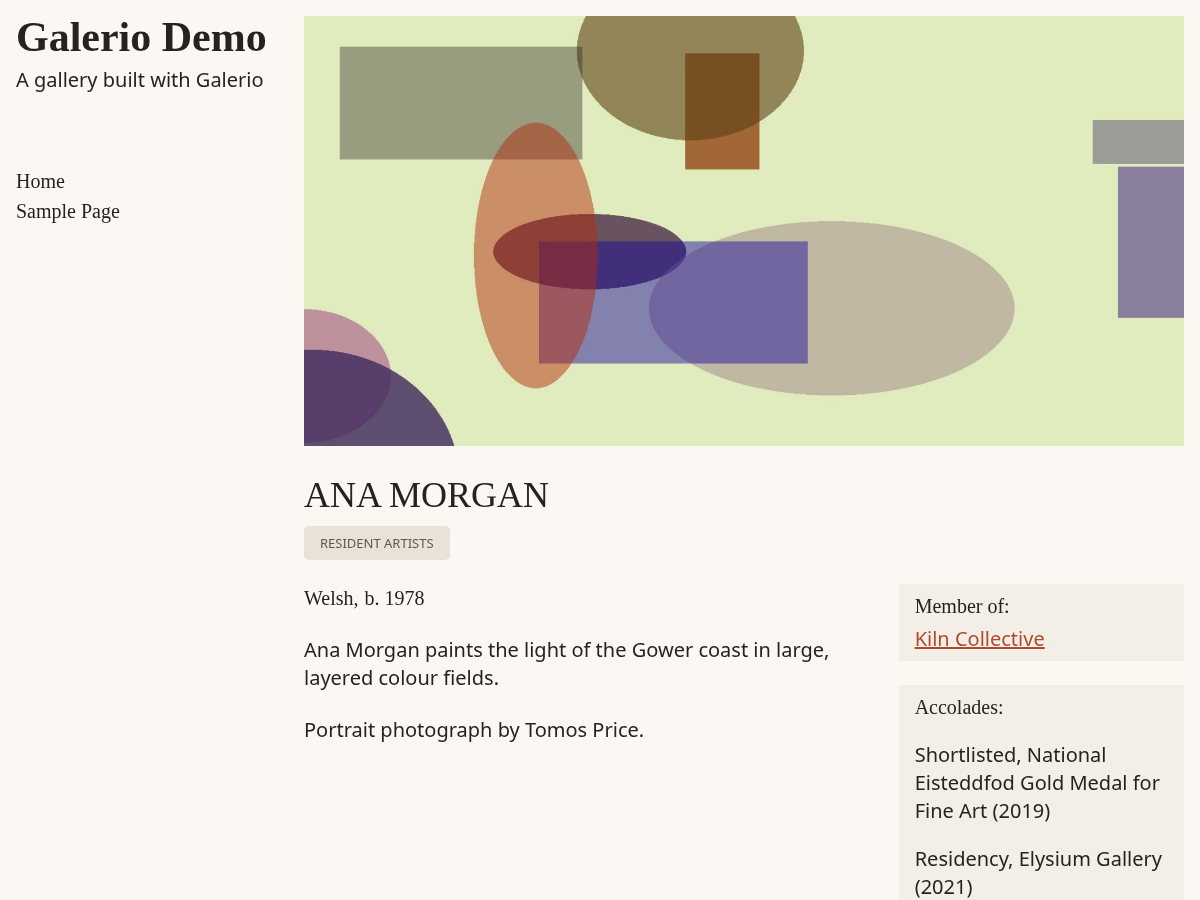
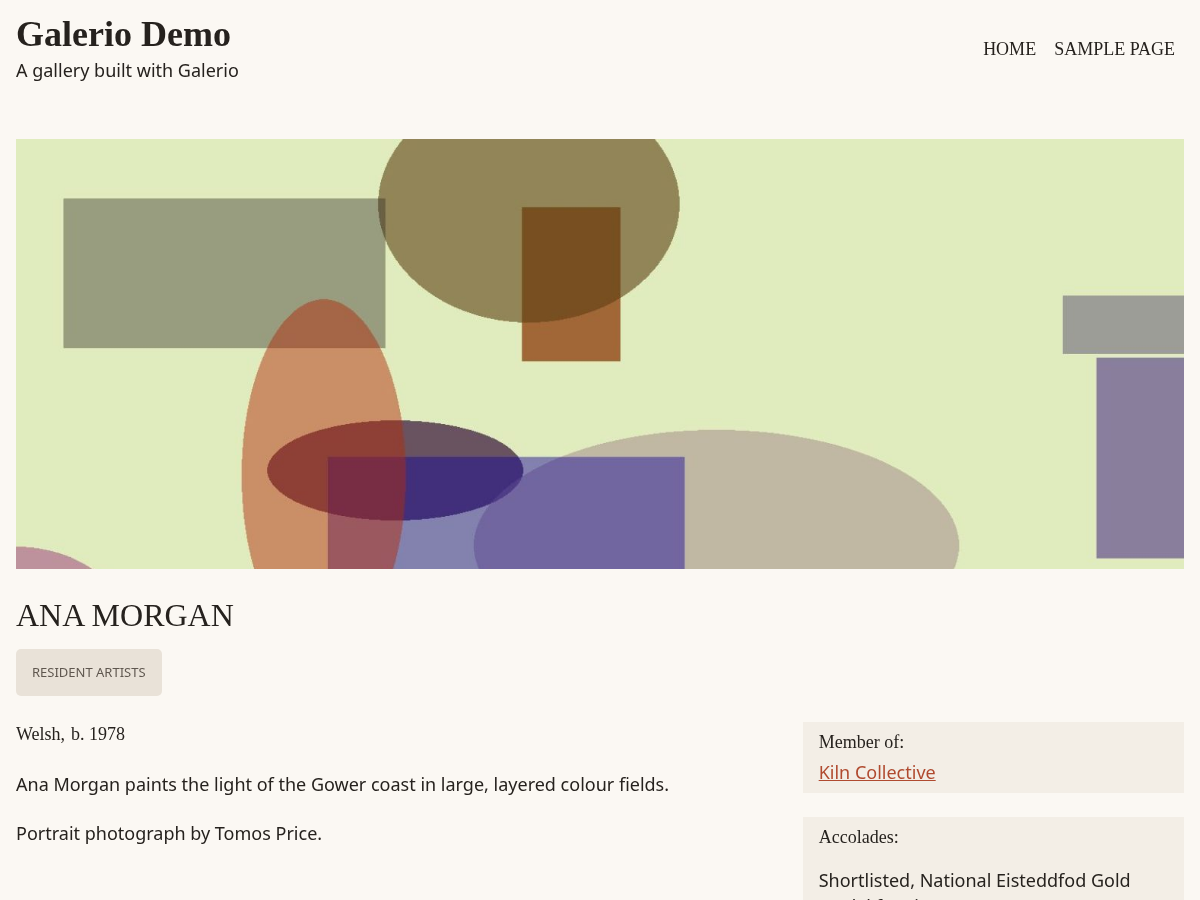
Move the Documentation template into a galerio.net child theme
Only galerio.net uses it. The template, its pattern and its customTemplates
entry move to themes/galerio-net (theme 3.0.0-alpha.10 drops them); the
starter's copy goes too. Pages keep the template name. The sticky-menu e2e
test that used the template moves with it, and the starter's thumbnail now
shows the top header layout.

diff --git a/tests/e2e/specs/galerio-net.spec.js b/tests/e2e/specs/galerio-net.spec.js
@@ -1,0 +1,125 @@
+/**
+ * The galerio.net child theme: its Documentation page template.
+ */
+const { test, expect } = require( '@wordpress/e2e-test-utils-playwright' );
+
+test.describe( 'galerio.net theme', () => {
+	test.use( { viewport: { width: 390, height: 844 } } );
+
+	test.beforeAll( async ( { requestUtils } ) => {
+		await requestUtils.activateTheme( 'galerio-net' );
+	} );
+
+	test.afterAll( async ( { requestUtils } ) => {
+		await requestUtils.activateTheme( 'galerio' );
+	} );
+
+	test( 'the Documentation template puts its menu beside the content, and stacks them on a phone', async ( {
+		page,
+		requestUtils,
+	} ) => {
+		const docs = await requestUtils.rest( {
+			path: '/wp/v2/pages',
+			method: 'POST',
+			data: {
+				title: 'Docs layout test',
+				status: 'publish',
+				template: 'wp-custom-template-documentation',
+			},
+		} );
+
+		try {
+			const columns = page.locator(
+				'.galerio-split > .wp-block-columns > .wp-block-column'
+			);
+
+			await page.setViewportSize( { width: 1280, height: 900 } );
+			await page.goto( docs.link );
+			let first = await columns.first().boundingBox();
+			let last = await columns.last().boundingBox();
+			expect( last.x ).toBeGreaterThan( first.x );
+
+			await page.setViewportSize( { width: 420, height: 900 } );
+			await page.goto( docs.link );
+			first = await columns.first().boundingBox();
+			last = await columns.last().boundingBox();
+			expect( last.y ).toBeGreaterThan( first.y );
+		} finally {
+			await requestUtils.rest( {
+				path: `/wp/v2/pages/${ docs.id }`,
+				method: 'DELETE',
+				params: { force: true },
+			} );
+		}
+	} );
+
+	test( 'the open menu covers other sticky menus', async ( {
+		page,
+		request,
+	} ) => {
+		// The Documentation template has its own sticky menu beside the site header's.
+		const login = await request.post( '/wp-login.php', {
+			form: { log: 'admin', pwd: 'password' },
+		} );
+		expect( login.ok() ).toBeTruthy();
+		const nonce = await (
+			await request.get( '/wp-admin/admin-ajax.php?action=rest-nonce' )
+		).text();
+		const created = await request.post( '/wp-json/wp/v2/pages', {
+			headers: { 'X-WP-Nonce': nonce },
+			data: {
+				title: 'Menu stacking test',
+				status: 'publish',
+				template: 'wp-custom-template-documentation',
+			},
+		} );
+		const docs = await created.json();
+
+		try {
+			await page.goto( docs.link );
+			await page
+				.locator( 'header' )
+				.getByRole( 'button', { name: 'Open menu' } )
+				.click();
+
+			const open = page.locator(
+				'.wp-block-navigation__responsive-container.is-menu-open'
+			);
+			await expect( open ).toBeVisible();
+
+			// Where the page's other links sit, the open menu is on top.
+			const showingThrough = await page.evaluate(
+				() =>
+					[
+						...document.querySelectorAll(
+							'main a, main + * a, .wp-block-navigation a'
+						),
+					]
+						.filter( ( link ) => ! link.closest( '.is-menu-open' ) )
+						.map( ( link ) => link.getBoundingClientRect() )
+						.filter(
+							( box ) =>
+								box.width &&
+								box.height &&
+								box.top >= 0 &&
+								box.bottom <= window.innerHeight
+						)
+						.filter(
+							( box ) =>
+								! document
+									.elementFromPoint(
+										box.left + box.width / 2,
+										box.top + box.height / 2
+									)
+									?.closest( '.is-menu-open' )
+						).length
+			);
+			expect( showingThrough ).toBe( 0 );
+		} finally {
+			await request.delete( `/wp-json/wp/v2/pages/${ docs.id }`, {
+				headers: { 'X-WP-Nonce': nonce },
+				params: { force: true },
+			} );
+		}
+	} );
+} );

diff --git a/tests/e2e/specs/child-theme.spec.js b/tests/e2e/specs/child-theme.spec.js
@@ -55,63 +55,43 @@ test.describe( 'Child theme starter', () => {
 		).toBeVisible();
 	} );
 
-	test( 'collection, article, profile and documentation pages use the top layout and stack their splits', async ( {
+	test( 'collection, article and profile pages use the top layout and stack their splits', async ( {
 		page,
-		requestUtils,
 	} ) => {
-		const docs = await requestUtils.rest( {
-			path: '/wp/v2/pages',
-			method: 'POST',
-			data: {
-				title: 'Starter docs test',
-				status: 'publish',
-				template: 'wp-custom-template-documentation',
-			},
-		} );
+		const pages = [
+			'/collection/shorelines/',
+			'/article/in-conversation-shorelines/',
+			'/profile/ana-morgan/',
+		];
 
-		try {
-			const pages = [
-				'/collection/shorelines/',
-				'/article/in-conversation-shorelines/',
-				'/profile/ana-morgan/',
-				docs.link,
-			];
+		for ( const [ width, stacked ] of [
+			[ 1280, false ],
+			[ 420, true ],
+		] ) {
+			await page.setViewportSize( { width, height: 900 } );
 
-			for ( const [ width, stacked ] of [
-				[ 1280, false ],
-				[ 420, true ],
-			] ) {
-				await page.setViewportSize( { width, height: 900 } );
+			for ( const url of pages ) {
+				await page.goto( url );
+				await expect(
+					page.locator( '.galerio-header-bar' )
+				).toBeVisible();
+				await expect(
+					page.locator( '.galerio-site-header' )
+				).toHaveCount( 0 );
 
-				for ( const url of pages ) {
-					await page.goto( url );
-					await expect(
-						page.locator( '.galerio-header-bar' )
-					).toBeVisible();
-					await expect(
-						page.locator( '.galerio-site-header' )
-					).toHaveCount( 0 );
+				const columns = page.locator(
+					'.galerio-split > .wp-block-columns > .wp-block-column'
+				);
+				const first = await columns.first().boundingBox();
+				const last = await columns.last().boundingBox();
 
-					const columns = page.locator(
-						'.galerio-split > .wp-block-columns > .wp-block-column'
-					);
-					const first = await columns.first().boundingBox();
-					const last = await columns.last().boundingBox();
-
-					// Side by side on a wide page; one above the other on a phone.
-					if ( stacked ) {
-						expect( last.y ).toBeGreaterThan( first.y );
-					} else {
-						expect( last.x ).toBeGreaterThan( first.x );
-					}
+				// Side by side on a wide page; one above the other on a phone.
+				if ( stacked ) {
+					expect( last.y ).toBeGreaterThan( first.y );
+				} else {
+					expect( last.x ).toBeGreaterThan( first.x );
 				}
 			}
-		} finally {
-			await requestUtils.rest( {
-				path: `/wp/v2/pages/${ docs.id }`,
-				method: 'DELETE',
-				params: { force: true },
-			} );
 		}
 	} );
 } );

diff --git a/tests/e2e/specs/smoke.spec.js b/tests/e2e/specs/smoke.spec.js
@@ -253,74 +253,4 @@ test.describe( 'Phone layout', () => {
 		);
 		expect( overflow ).toBeLessThanOrEqual( 0 );
 	} );
-
-	test( 'the open menu covers other sticky menus', async ( {
-		page,
-		request,
-	} ) => {
-		// The Documentation template has its own sticky menu beside the site header's.
-		const login = await request.post( '/wp-login.php', {
-			form: { log: 'admin', pwd: 'password' },
-		} );
-		expect( login.ok() ).toBeTruthy();
-		const nonce = await (
-			await request.get( '/wp-admin/admin-ajax.php?action=rest-nonce' )
-		).text();
-		const created = await request.post( '/wp-json/wp/v2/pages', {
-			headers: { 'X-WP-Nonce': nonce },
-			data: {
-				title: 'Menu stacking test',
-				status: 'publish',
-				template: 'wp-custom-template-documentation',
-			},
-		} );
-		const docs = await created.json();
-
-		try {
-			await page.goto( docs.link );
-			await page
-				.locator( 'header' )
-				.getByRole( 'button', { name: 'Open menu' } )
-				.click();
-
-			const open = page.locator(
-				'.wp-block-navigation__responsive-container.is-menu-open'
-			);
-			await expect( open ).toBeVisible();
-
-			// Where the page's other links sit, the open menu is on top.
-			const showingThrough = await page.evaluate(
-				() =>
-					[
-						...document.querySelectorAll(
-							'main a, main + * a, .wp-block-navigation a'
-						),
-					]
-						.filter( ( link ) => ! link.closest( '.is-menu-open' ) )
-						.map( ( link ) => link.getBoundingClientRect() )
-						.filter(
-							( box ) =>
-								box.width &&
-								box.height &&
-								box.top >= 0 &&
-								box.bottom <= window.innerHeight
-						)
-						.filter(
-							( box ) =>
-								! document
-									.elementFromPoint(
-										box.left + box.width / 2,
-										box.top + box.height / 2
-									)
-									?.closest( '.is-menu-open' )
-						).length
-			);
-			expect( showingThrough ).toBe( 0 );
-		} finally {
-			await request.delete( `/wp-json/wp/v2/pages/${ docs.id }`, {
-				headers: { 'X-WP-Nonce': nonce },
-				params: { force: true },
-			} );
-		}
-	} );
 } );

diff --git a/themes/galerio-net/templates/wp-custom-template-documentation.html b/themes/galerio-net/templates/wp-custom-template-documentation.html
@@ -6,7 +6,7 @@
 <!-- /wp:column -->
 
 <!-- wp:column {"metadata":{"name":"Main Content Column"},"style":{"spacing":{"padding":{"top":"var:preset|spacing|40","bottom":"var:preset|spacing|40","left":"var:preset|spacing|40","right":"var:preset|spacing|40"}}}} -->
-<div class="wp-block-column" style="padding-top:var(--wp--preset--spacing--40);padding-right:var(--wp--preset--spacing--40);padding-bottom:var(--wp--preset--spacing--40);padding-left:var(--wp--preset--spacing--40)"><!-- wp:pattern {"slug":"galerio/template-documentation"} /-->
+<div class="wp-block-column" style="padding-top:var(--wp--preset--spacing--40);padding-right:var(--wp--preset--spacing--40);padding-bottom:var(--wp--preset--spacing--40);padding-left:var(--wp--preset--spacing--40)"><!-- wp:pattern {"slug":"galerio-net/template-documentation"} /-->
 
 <!-- wp:group {"tagName":"footer","metadata":{"name":"Footer"},"layout":{"type":"default"}} -->
 <footer class="wp-block-group"><!-- wp:template-part {"slug":"footer"} /--></footer>

diff --git a/themes/galerio-net/style.css b/themes/galerio-net/style.css
@@ -1,0 +1,16 @@
+/*
+Theme Name: galerio.net
+Theme URI: https://galerio.net
+Template: galerio
+Author: Adasha
+Author URI: https://adasha.com
+Description: galerio.net's theme: Galerio with the Documentation page template, which galerio.net uses for its documentation.
+Requires at least: 6.6
+Tested up to: 7.1
+Requires PHP: 7.4
+Version: 0.1.0-alpha.1
+License: GNU General Public License v2 or later
+License URI: https://www.gnu.org/licenses/gpl-2.0.html
+Text Domain: galerio-net
+Tags: full-site-editing, block-patterns, translation-ready
+*/

diff --git a/themes/galerio/style.css b/themes/galerio/style.css
@@ -8,7 +8,7 @@ Tags: portfolio, photography, two-columns, left-sidebar, custom-colors, custom-m
 Requires at least: 6.6
 Tested up to: 7.1
 Requires PHP: 7.4
-Version: 3.0.0-alpha.9
+Version: 3.0.0-alpha.10
 License: GNU General Public License v2 or later
 License URI: https://www.gnu.org/licenses/gpl-2.0.html
 Text Domain: galerio

diff --git a/themes/galerio-net/patterns/template-documentation.php b/themes/galerio-net/patterns/template-documentation.php
@@ -1,11 +1,11 @@
 <?php
 /**
  * Title: Documentation
- * Slug: galerio/template-documentation
+ * Slug: galerio-net/template-documentation
  * Inserter: no
- * Description: A documentation page: a menu column on the left and the item's content beside it. Used by the wp-custom-template-documentation template; a child theme can override this pattern alone.
+ * Description: A documentation page: a menu column on the left and the item's content beside it. Used by the wp-custom-template-documentation template.
  *
- * @package Galerio
+ * @package Galerio_Net
  */
 
 ?>

diff --git a/README.md b/README.md
@@ -9,6 +9,7 @@ Galerio has a demo/dev site at <https://galerio.net>, but it's in a very unfinis
 | Path | Contents |
 | --- | --- |
 | `themes/galerio` | The Galerio block theme (presentation only). |
+| `themes/galerio-net` | galerio.net's child theme: the Documentation page template, which only galerio.net uses. |
 | `themes/galerio-child-starter` | A starter child theme with its own colours, fonts, footer pattern and a top header layout. Its README explains how to make your own Galerio child. |
 | `plugins/galerio-core` | Data layer and tools, including the Pods package importer. |
 | `plugins/galerio-media` | Media Library folders (shared and per person, with a FileBird import) and uploads private to the people who made them. |

diff --git a/themes/galerio-net/README.md b/themes/galerio-net/README.md
@@ -1,0 +1,9 @@
+# galerio.net theme
+
+A child of Galerio for <https://galerio.net>. It adds one thing: the **Documentation** page template (a menu column on the left, the page's content beside it), which only galerio.net uses.
+
+- `templates/wp-custom-template-documentation.html`: the template, in Galerio's side menu layout.
+- `patterns/template-documentation.php`: its content.
+- `theme.json`: lists the template so it can be chosen on a page.
+
+Pages that already use the Documentation template keep using it once this theme is active.
